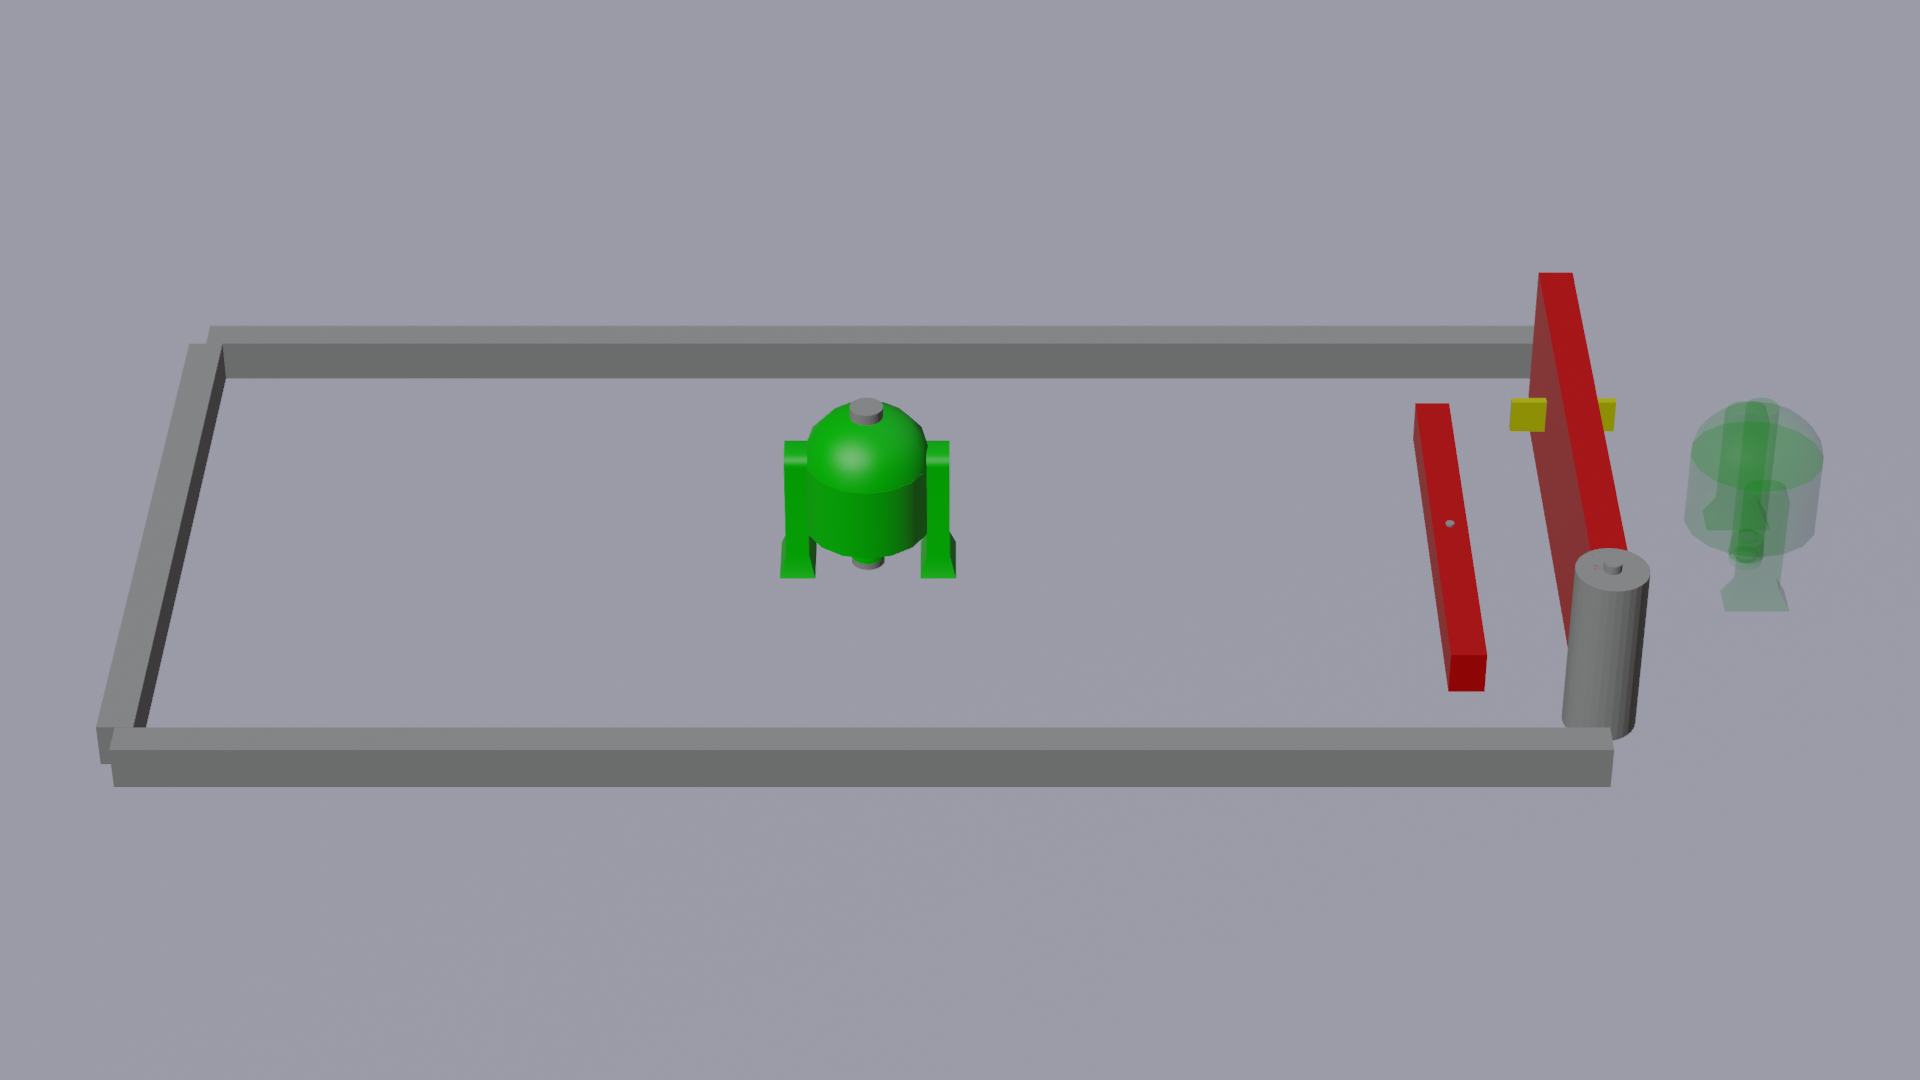
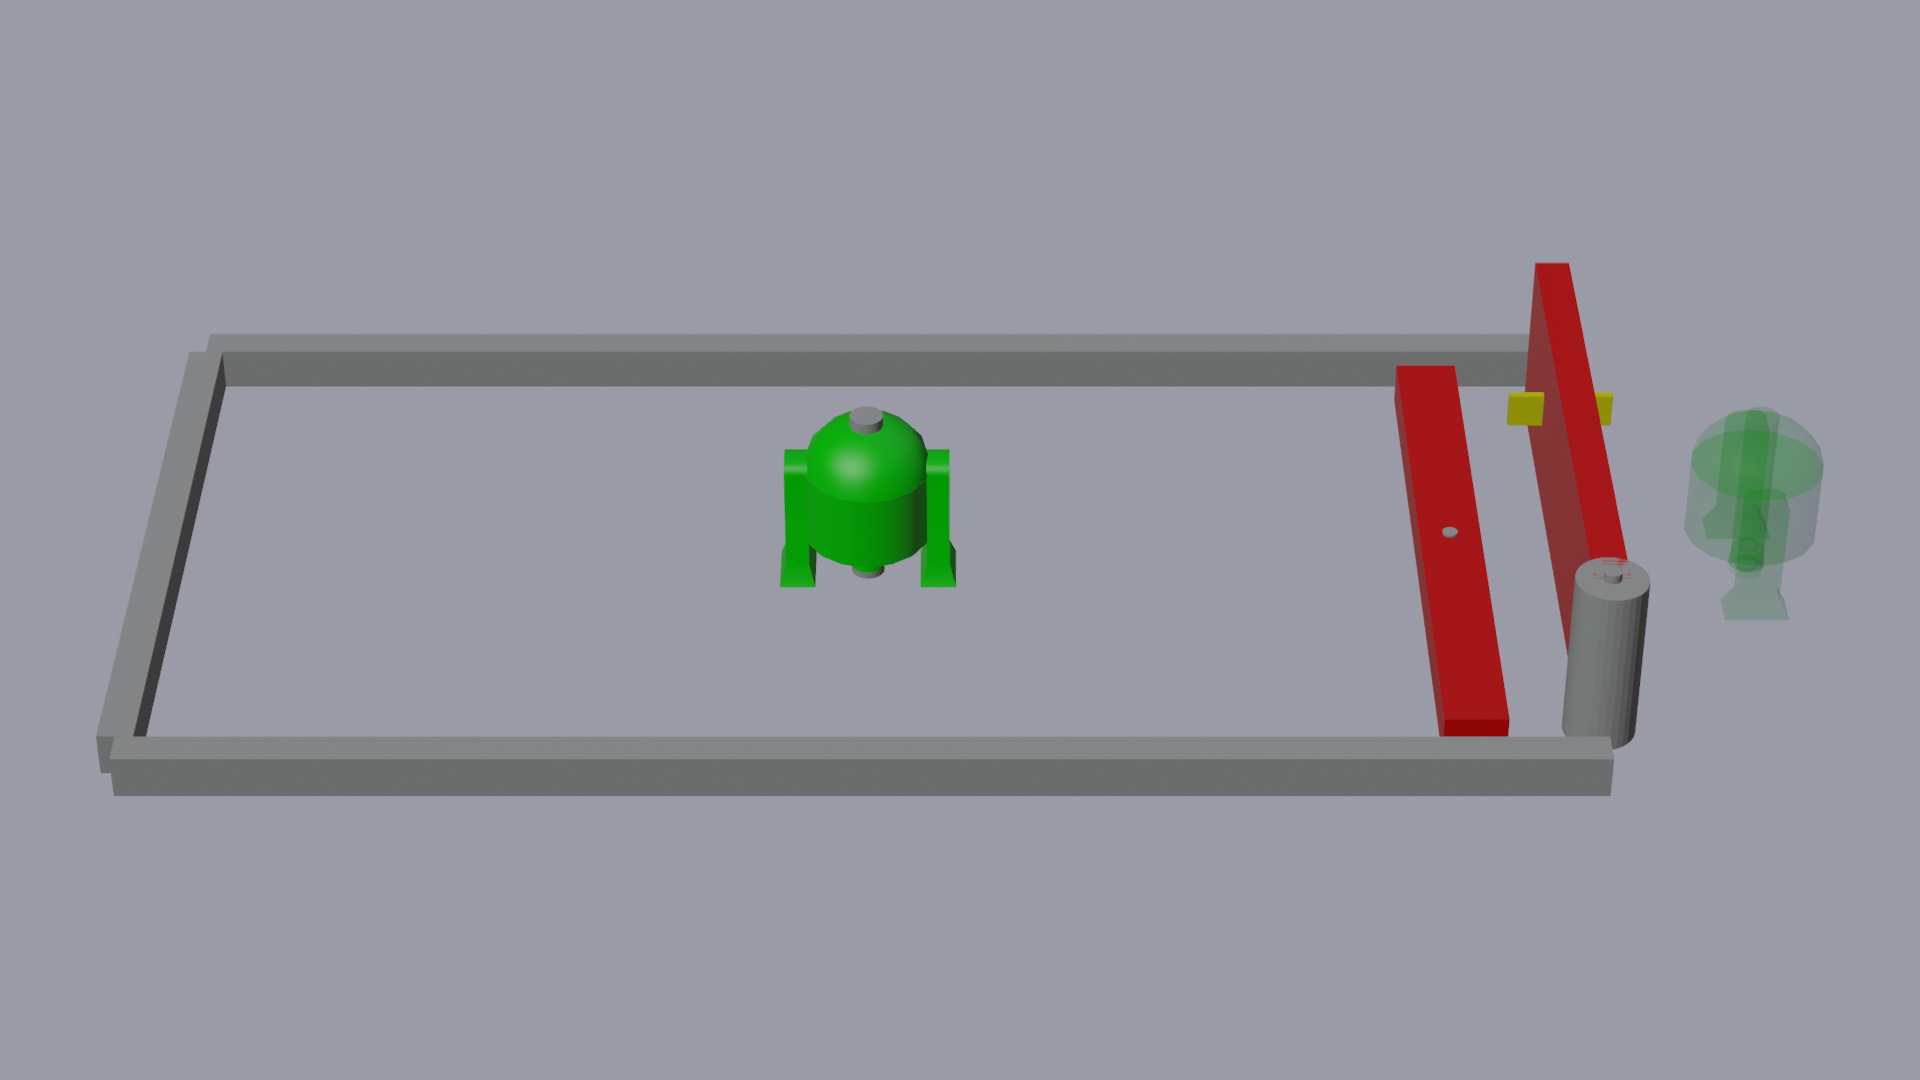
chore (minor): reduce joint bounds in escape_room

diff --git a/src/sampling.py b/src/sampling.py
@@ -818,8 +818,8 @@ class EscapeRoomSampler(PuzzleSampler):
         self.world.create_base_link(self.floor_size)
 
         # add robot
-        first = self.world.new_link((0, 0, 0.5), (0, 0, 0), (0, 0, 0), 'prismatic', -16, 16, joint_axis=(1, 0, 0))
-        second = self.world.new_link((0, 0, 0), (0, 0, 0), (0, 0, 0), 'prismatic', -16, 16, joint_axis=(0, 1, 0),
+        first = self.world.new_link((0, 0, 0.5), (0, 0, 0), (0, 0, 0), 'prismatic', -6, 6, joint_axis=(1, 0, 0))
+        second = self.world.new_link((0, 0, 0), (0, 0, 0), (0, 0, 0), 'prismatic', -6, 6, joint_axis=(0, 1, 0),
                                      parent=first)
         droid = self.world.new_link((0, 0, 0), (0, 0, 0), (0.75, 1, 1), 'revolute', -calc.RAD180, calc.RAD180,
                                     parent=second, mesh_filepath="input-meshes/droids.blend", object_name="droids_3",
@@ -832,17 +832,17 @@ class EscapeRoomSampler(PuzzleSampler):
 
         # add obstacle
         y = random() * 3.2 + 0.6
-        first = self.world.new_link((0, y, 0.125), (0, 0, 0), (0, 0, 0), 'prismatic', -16, 16, joint_axis=(1, 0, 0))
-        second = self.world.new_link((0, 0, 0), (0, 0, 0), (0, 0, 0), 'prismatic', -16, 16, joint_axis=(0, 1, 0),
+        first = self.world.new_link((0, y, 0.125), (0, 0, 0), (0, 0, 0), 'prismatic', -6, 6, joint_axis=(1, 0, 0))
+        second = self.world.new_link((0, 0, 0), (0, 0, 0), (0, 0, 0), 'prismatic', -6, 6, joint_axis=(0, 1, 0),
                                      parent=first)
-        obstacle = self.world.new_link((0, 0, 0), (0, 0, 0), (2.5, 0.2, 0.25), 'revolute', -calc.RAD180, calc.RAD180,
+        obstacle = self.world.new_link((0, 0, 0), (0, 0, 0), (3.5, 0.35, 0.25), 'revolute', -calc.RAD180, calc.RAD180,
                                     parent=second)
         self.start_state.extend((0, 0, 0))
         self.goal_space.extend(((-16, 16), (-16, 16)))
         self.goal_space_append((-calc.RAD180, calc.RAD180))
 
         # add door
-        self.world.new_door((1.5, 4, 0.5), (0, 0, calc.RAD180), (3, 0.2, 1), top_handle=False)
+        self.world.new_door((1.5, 4, 0.5), (0, 0, calc.RAD180), (3.2, 0.2, 1), top_handle=False)
         self.start_state.append(0)
         self.goal_space_append((0, calc.RAD90))
 
